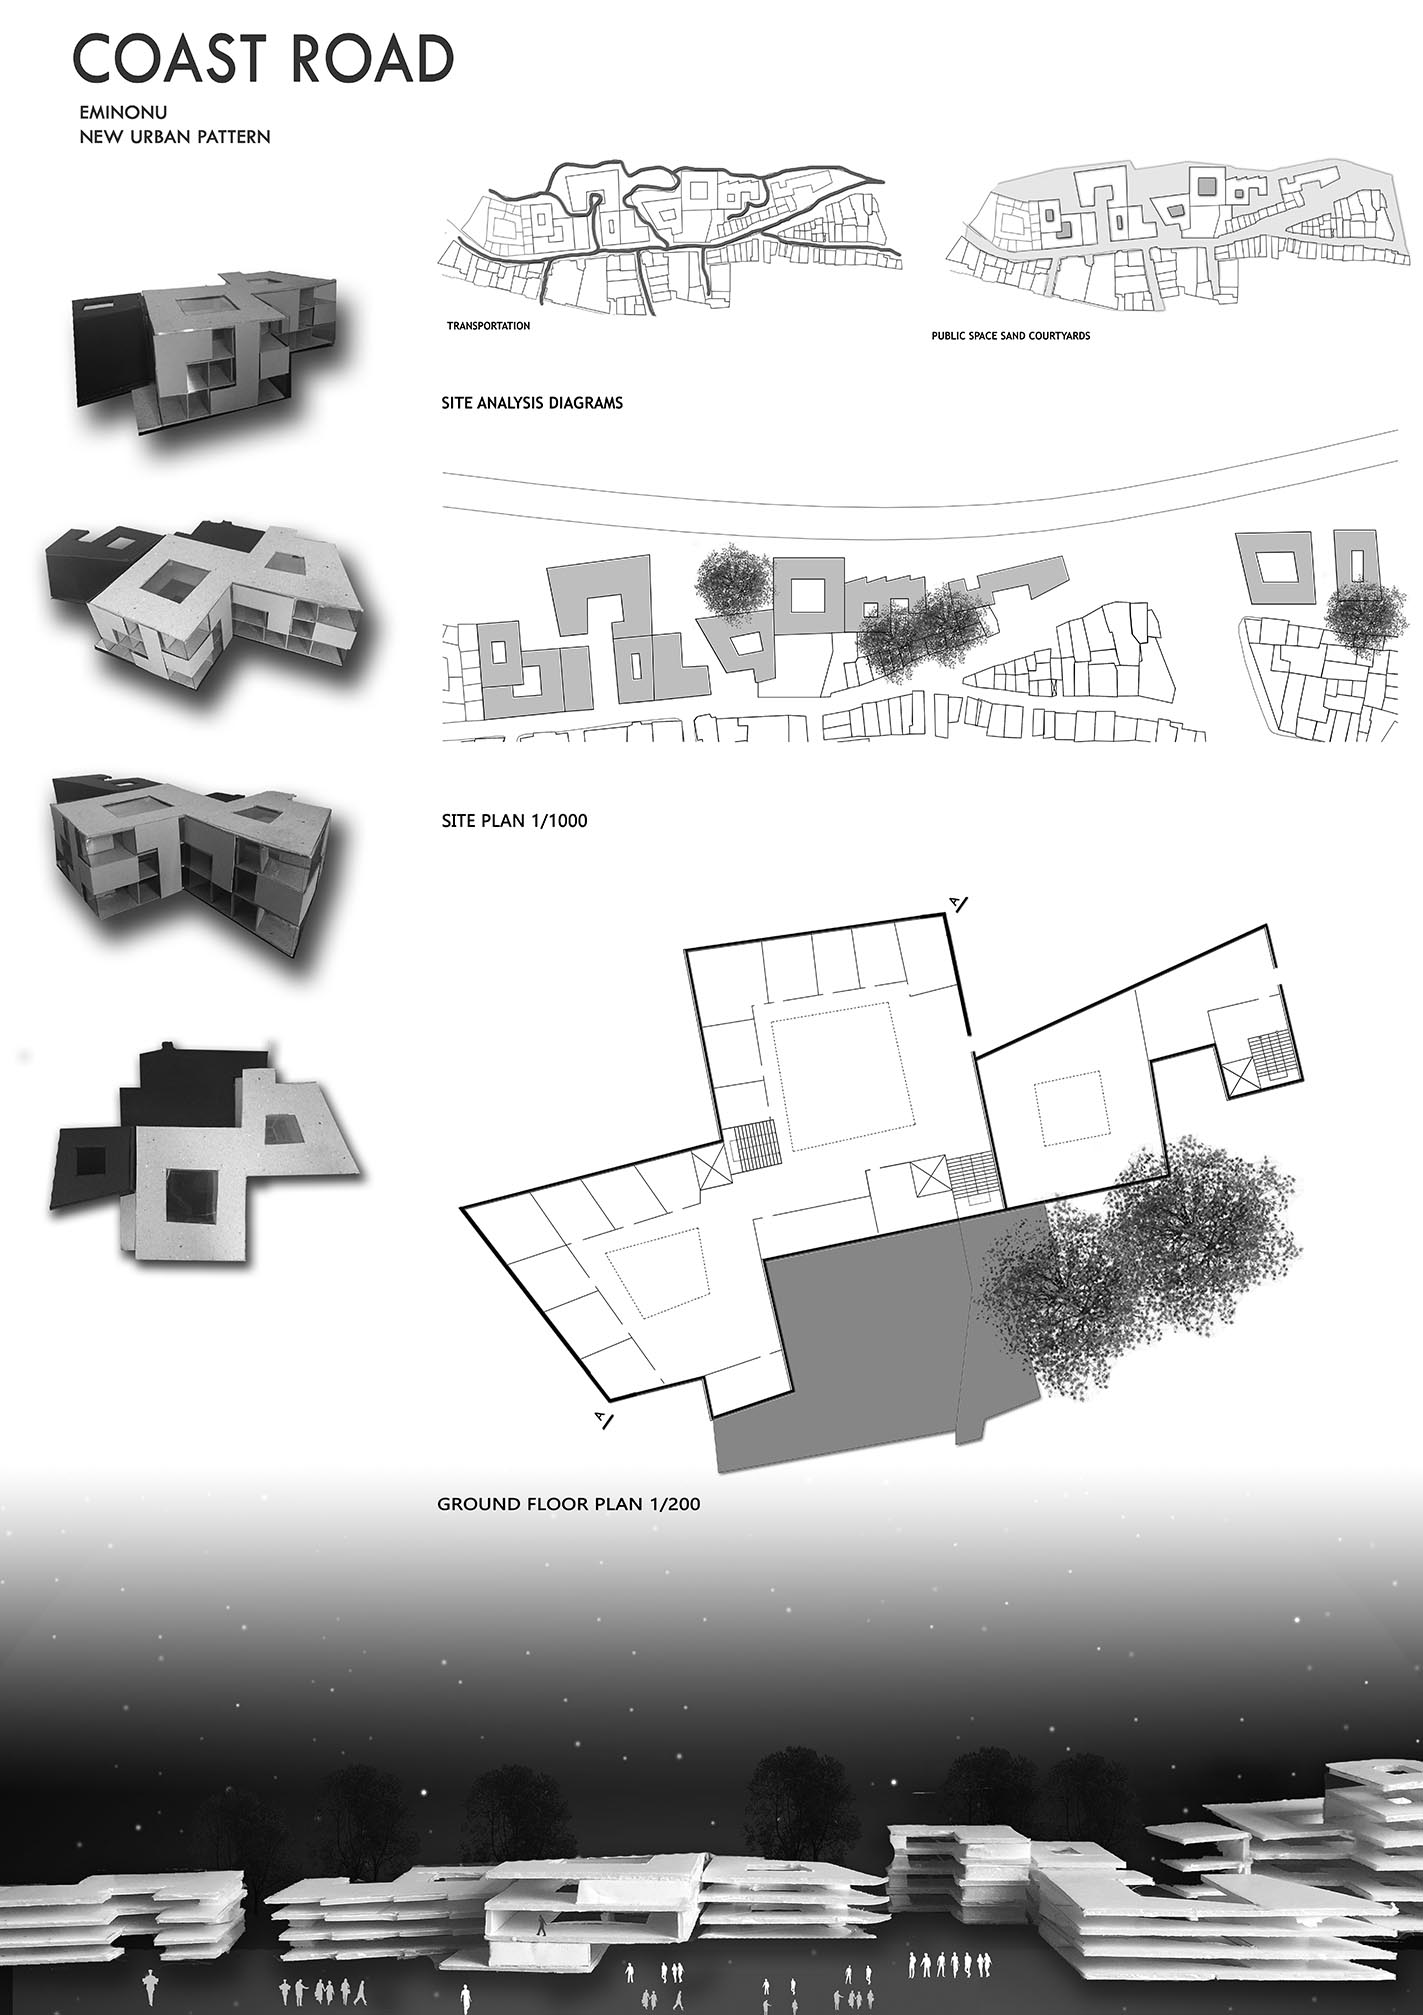
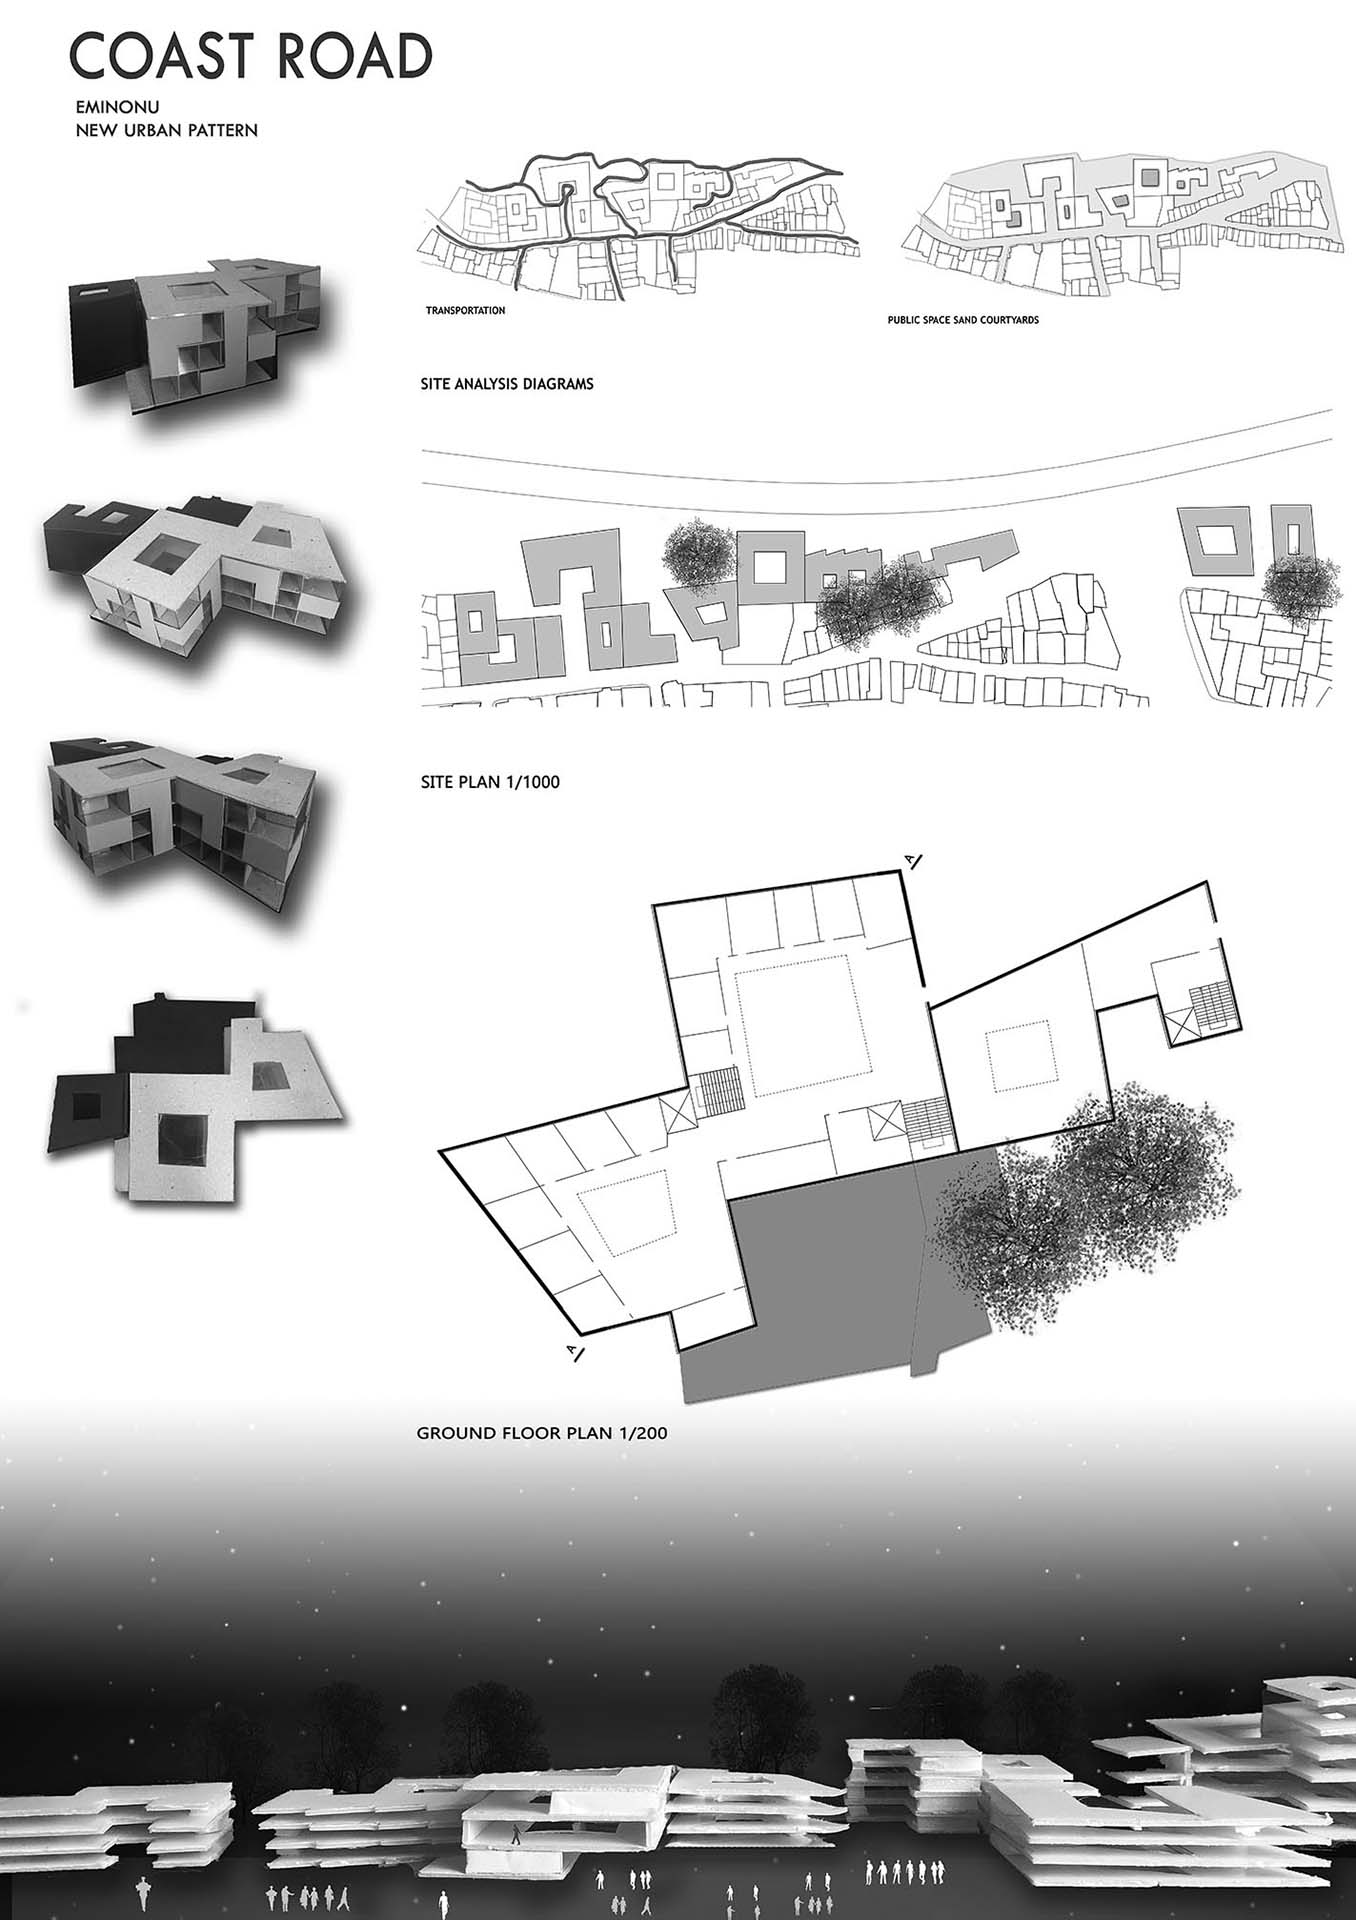
Reduced image size

diff --git a/index.html b/index.html
@@ -384,7 +384,7 @@
                         <br></br>
                         <div class="row">
                             <div class="col-sm-12 col-md-12" data-aos="fade-up">
-                                <a class="lightbox" href="img/projects/11-proje1.png" >
+                                <a class="lightbox" href="img/projects/11-proje1.jpg" >
                                     <img src="img/projects/11-proje1.png" >
                                 </a>
                             </div>
